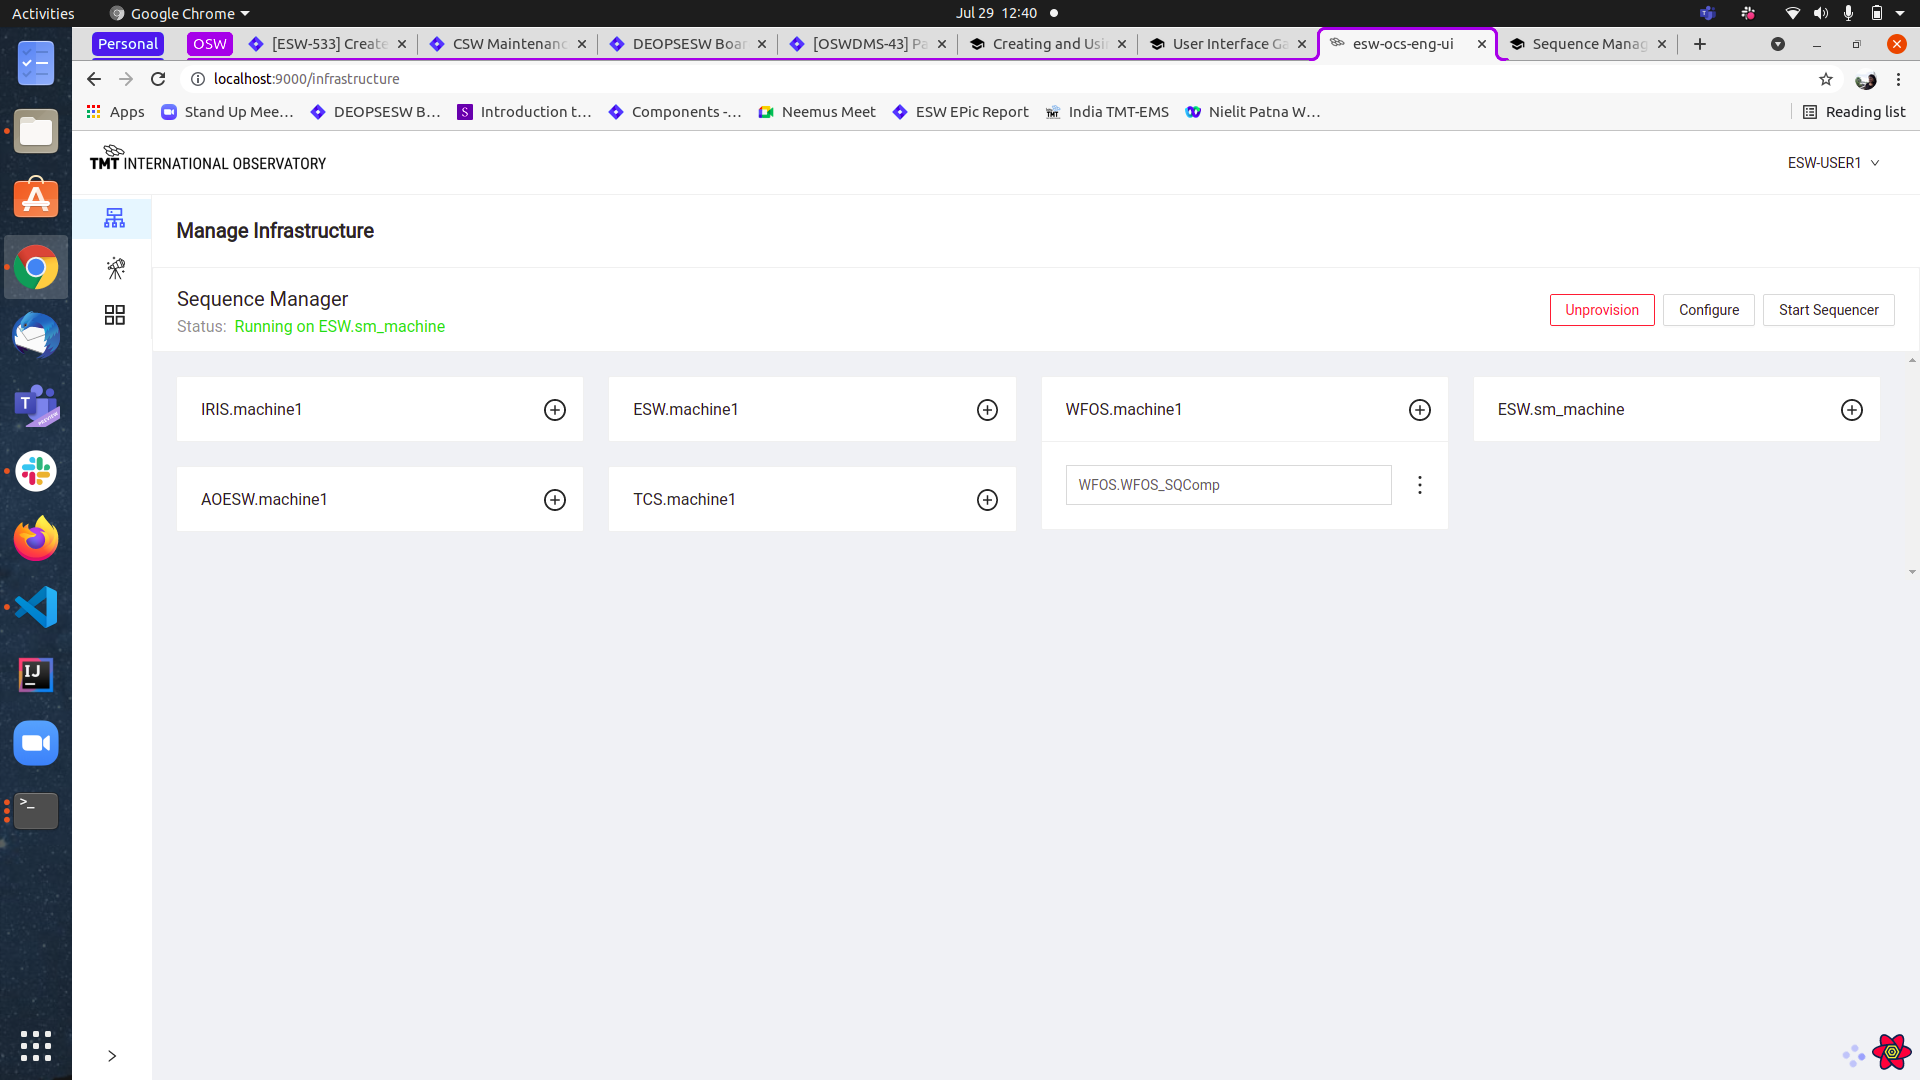
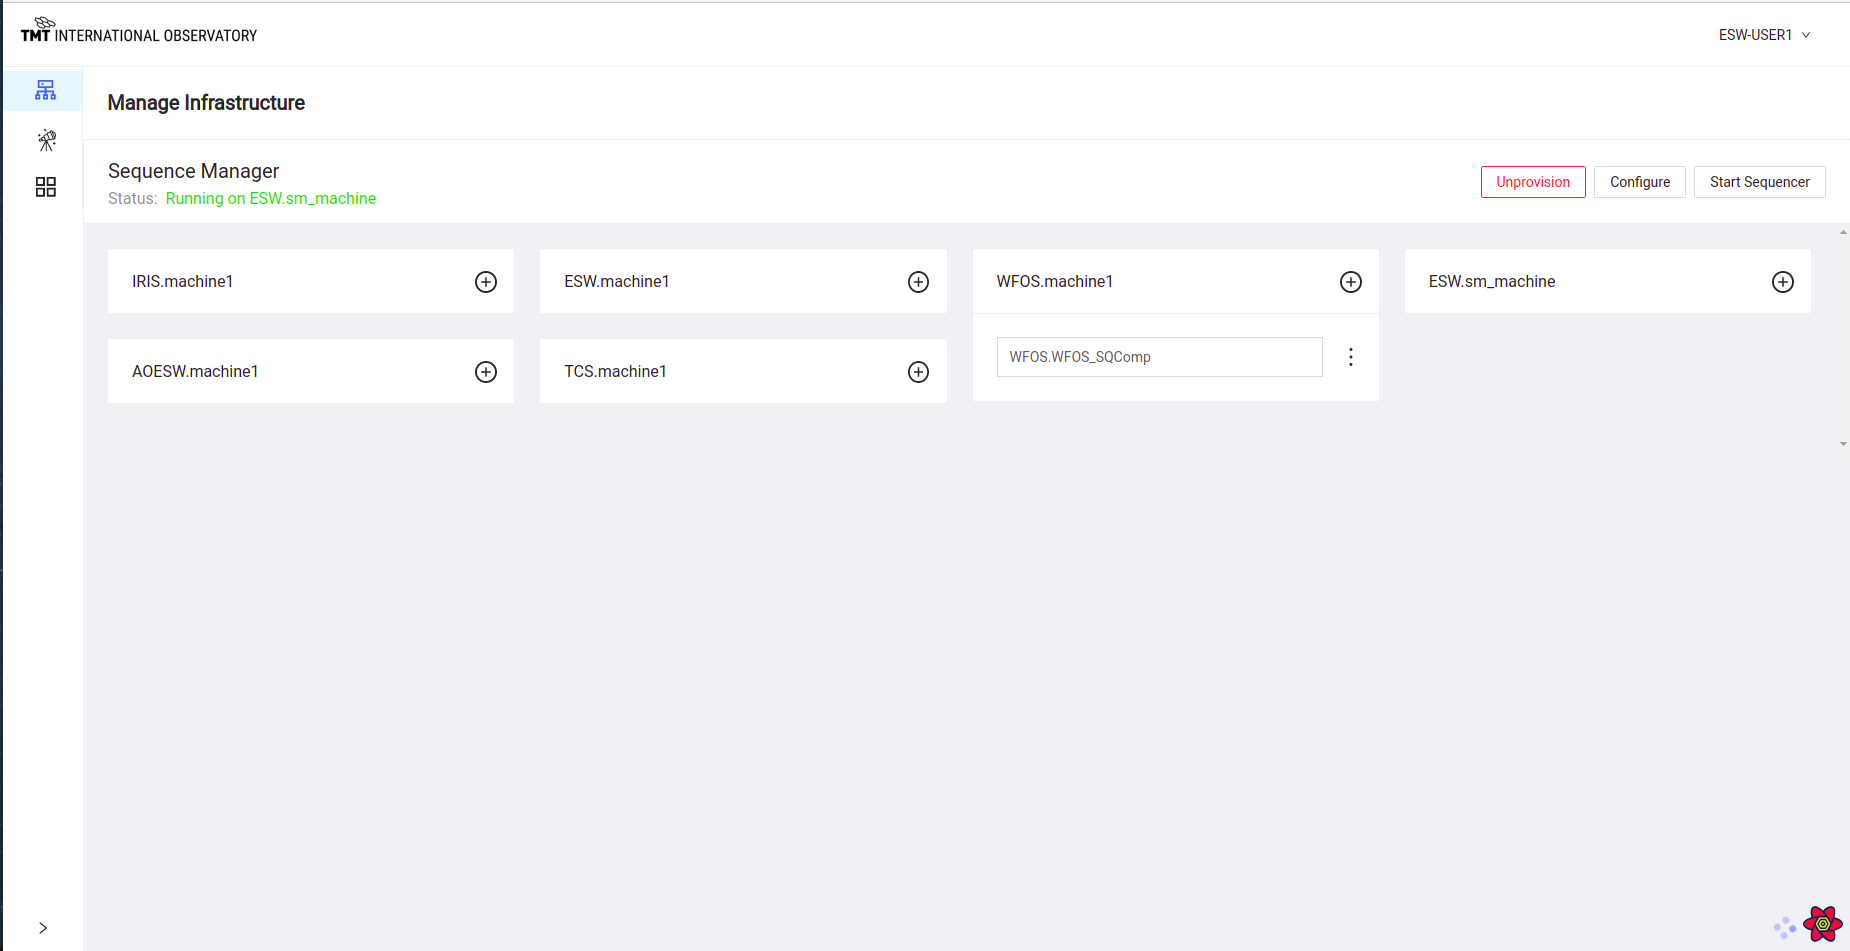
Cropped Black Areas and minor change to Getting-started

diff --git a/docs/src/main/Getting-started.md b/docs/src/main/Getting-started.md
@@ -37,7 +37,7 @@ To see the OCS-ENG-UI working, it is necessary to have a few pieces of infrastru
 
 * Sequence manager could be started from UI. However, Sometimes you may want to work in a simulation environment & to start a simulated Sequence Manager, use
     `esw-services start --agent-service -s --simulation`
-* Alternatively, You can use `esw-services start-eng-ui-services --scripts-version 0.3.0-RC1 --esw-version 0.3.0-RC1` command to start all the required services and agents required to test the observation scripts written in repo `sequencer-scripts/ui-setup` branch.
+* Alternatively, You can use `esw-services start-eng-ui-services --scripts-version 89e2bf1  --esw-version 0.3.0-RC1` command to start all the required services and agents required to test the observation scripts written in repo `sequencer-scripts/ui-setup` branch.
 
 ## Run the ESW-OCS-ENG-UI Application in Local Environment
 
